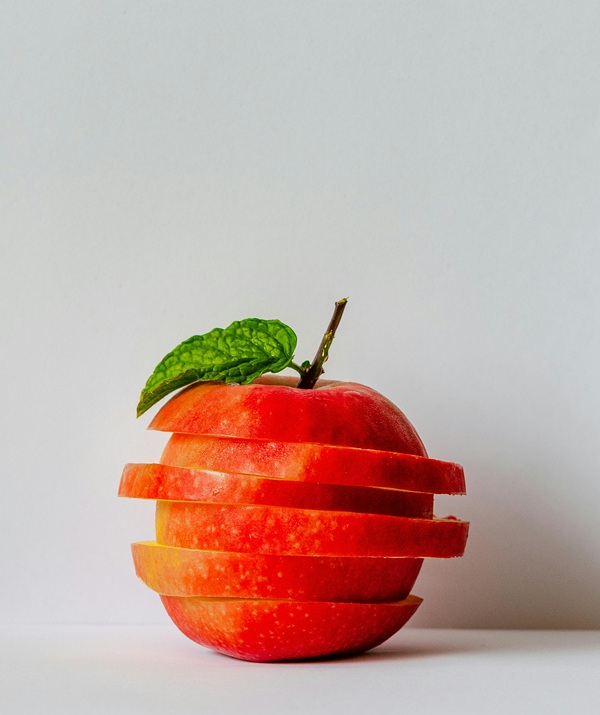
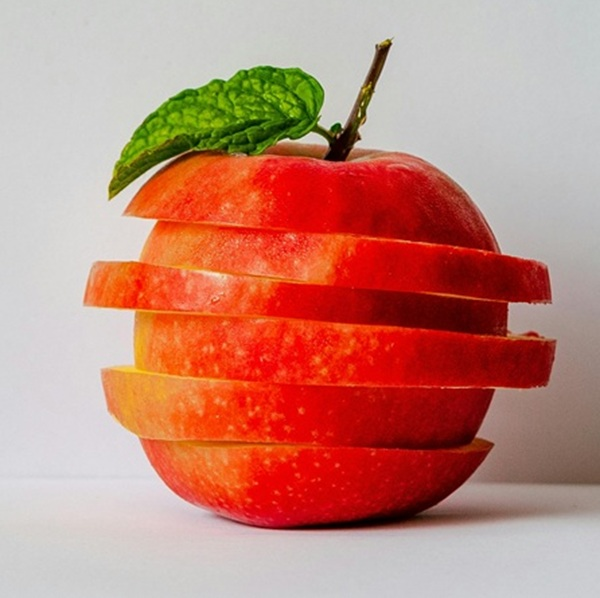
restaurant: finitond grid ajustement espacement et tailles

diff --git a/css/style.css b/css/style.css
@@ -136,15 +136,16 @@ form {
     gap: 15px;
 }
 .big-image-1{
- grid-column: 3/5 ;
- grid-row: 1/2;
+ grid-column: span 2 ;
+ grid-row: span 2;
 }
 .big-image-2{
-grid-row: 2/4;
-grid-column: 1/3;
+grid-row: span 2;
+grid-column: span 2;
 }
 img{
     width:100%;
-    height: auto;
+    height: 100%;
     border-radius: 8px;
+    object-fit: cover;
 }
